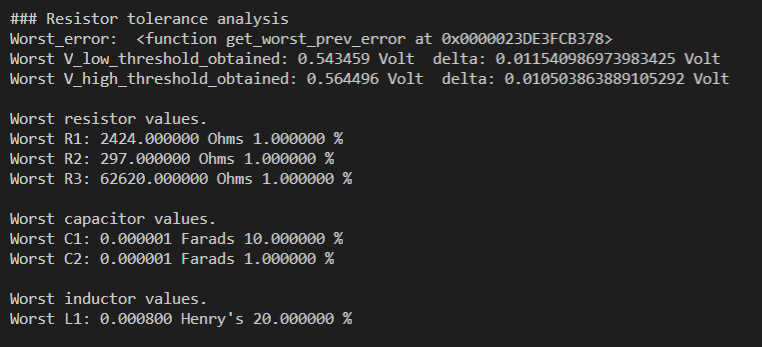
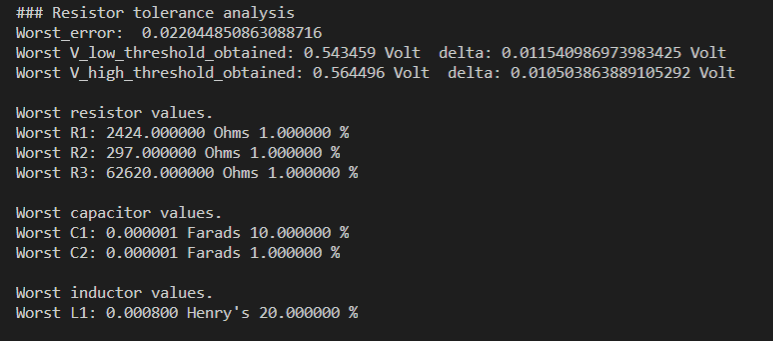
Small correction.
Small correction on the error in the tolerance analysis output
statement.

diff --git a/automatic_circuit_design_by_RCL_component_search.py b/automatic_circuit_design_by_RCL_component_search.py
@@ -641,7 +641,7 @@ def main():
     worst_tolerance_component_analysis()
     
     print("### Resistor tolerance analysis")
-    print("Worst_error: ", get_worst_prev_error)
+    print("Worst_error: ", get_worst_prev_error())
     for _, target_values in dic_target_calc_values.items():
         print("Worst %s_obtained: %f %s  delta: %s %s" % (target_values.get(TCalcValues.C_NAME),
               target_values.get(TCalcValues.C_WORST_VALUE), target_values.get(TCalcValues.C_UNITS), 
